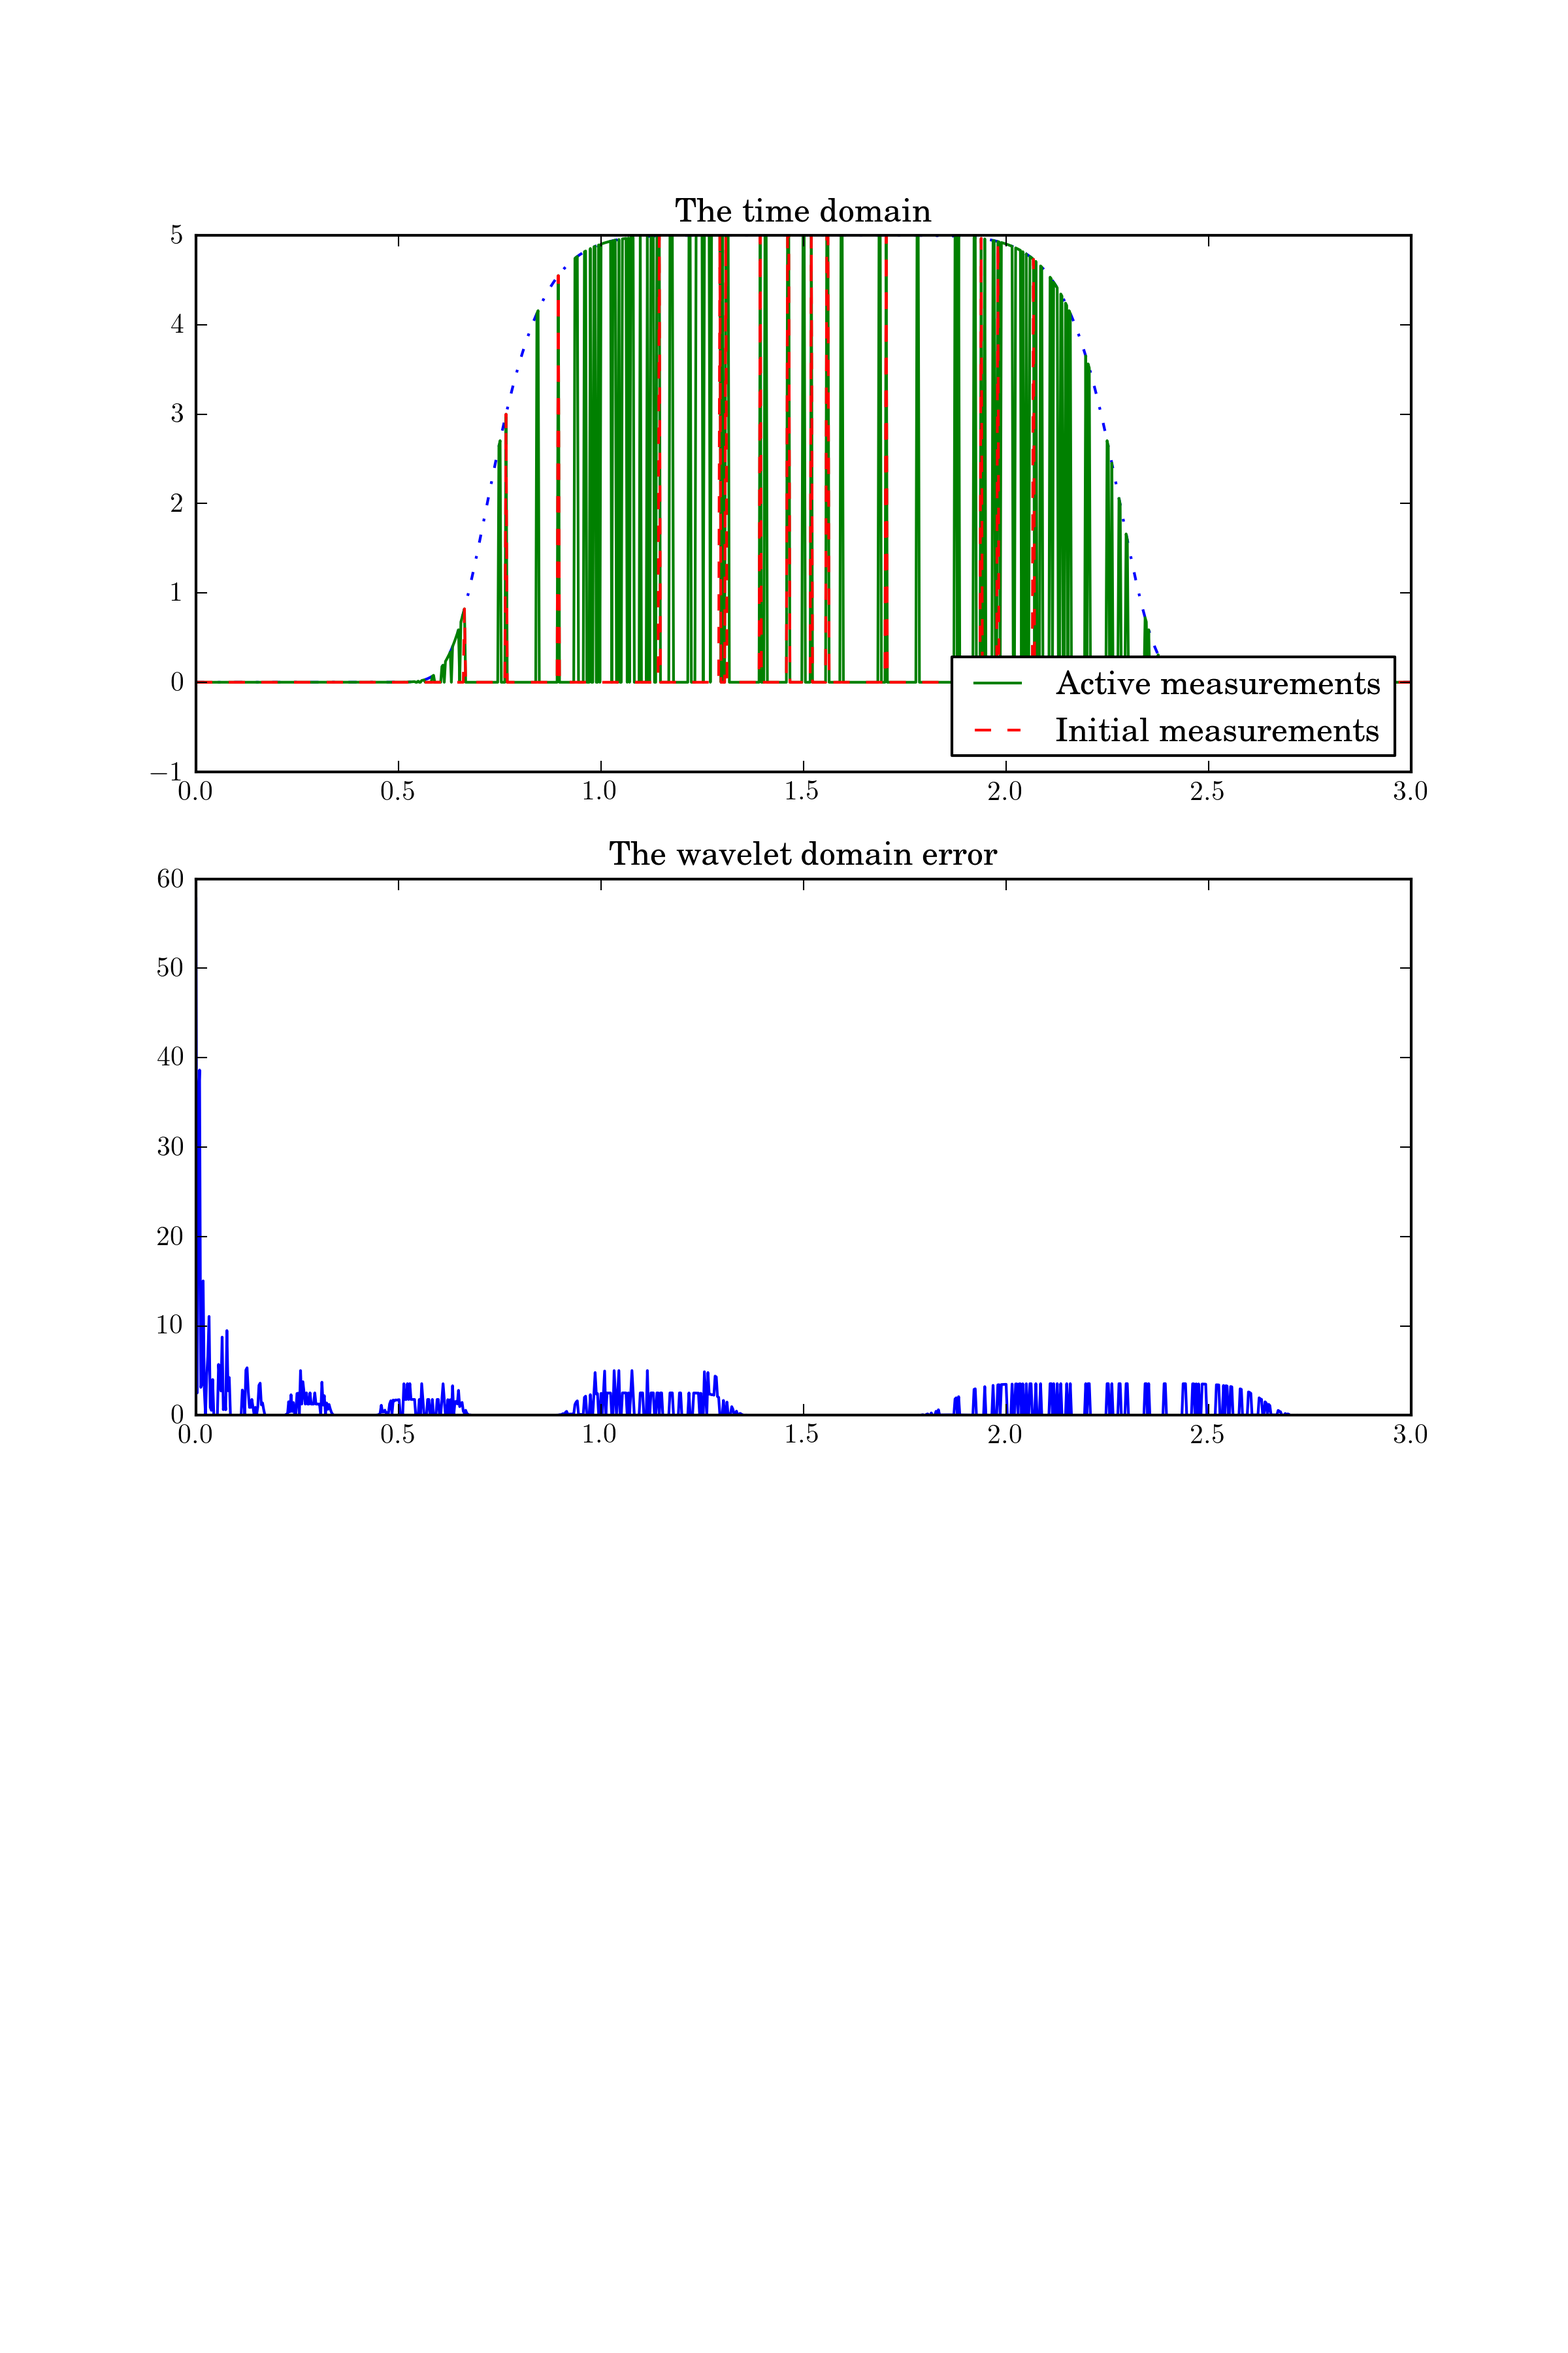
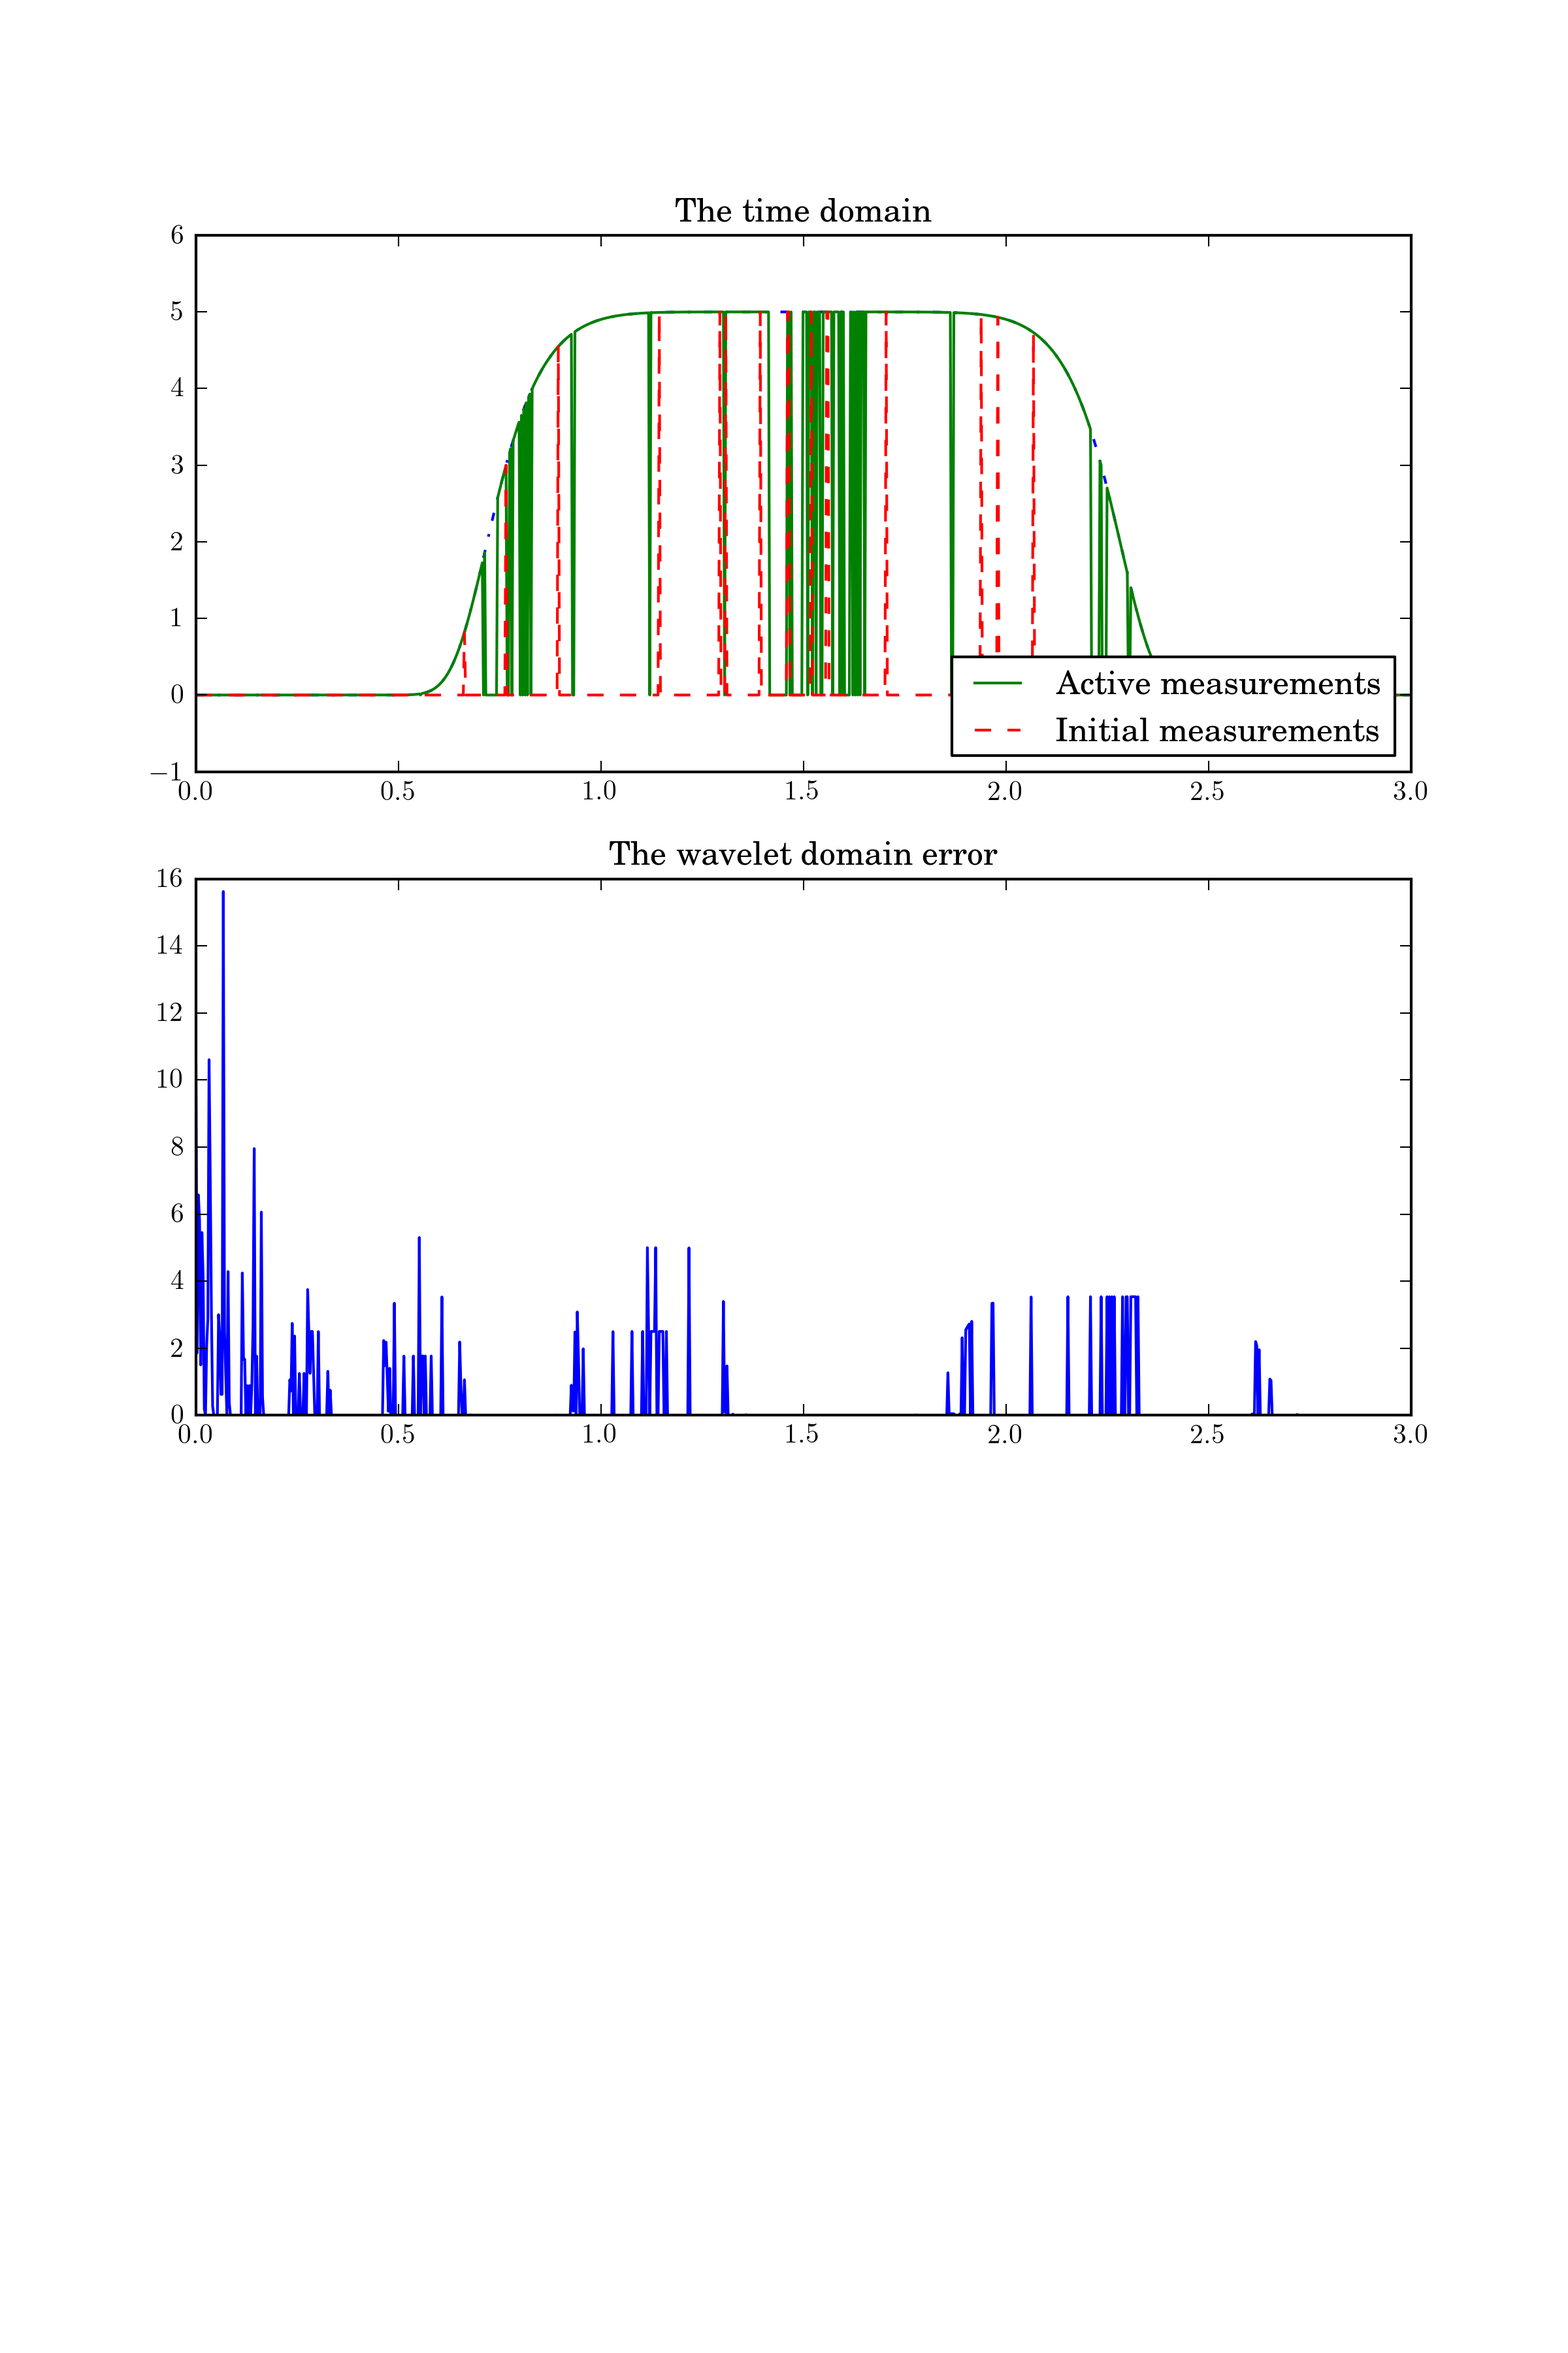
Before I revamp tree_test.py

diff --git a/tree/tree_test.py b/tree/tree_test.py
@@ -245,8 +245,13 @@ def sampleAtInd(ar, sam):
     N = len(ar)
 
     # make our haar matrix
-    h = haarMatrix(ar.shape[0])
-    h = matrix(h)
+    k = haarMatrix(ar.shape[0])
+    h = matrix(k)
+
+    # our wavelet trasform: x = h w
+    h = h.T
+    h = linalg.pinv(h)
+
 
     # tell it where we want to delete
     de = logical_not(sam)
@@ -264,89 +269,100 @@ def sampleAtInd(ar, sam):
     w = h * c
     return w
 
-seed(42)
-num = 1024; max = 3
-t = linspace(0, max, num=num)
-x = e**((t-max/2)**2)
-x = 1 / (1 + exp(10 * (t-max/2)**8)) * 10
+def old():
+    seed(42)
+    num = 1024; max = 3
+    t = linspace(0, max, num=num)
+    x = e**((t-max/2)**2)
+    x = 1 / (1 + exp(10 * (t-max/2)**8)) * 10
 
-N = len(x); n = N
-p = 0.03
-sam = array(np.round(rand(N) * 1 - 0.5 + p), dtype=bool)
+    N = len(x); n = N
+    p = 0.03
+    sam = array(np.round(rand(N) * 1 - 0.5 + p), dtype=bool)
 
-# an approximation in the wavelet domain
-w = sampleAtInd(x, sam)
-stayW = w
-y = idwt_full(w)
-
-# what indicies are important?
-# the ones where the wavelet domain is large there
-waveletIndicies = findIndiciesForHaar(n)
-
-level = 0
-l = 1.2
-j = 0
-while level <= 5:
-    # telling when we've reached level <4>
-    j += 1
-    print level
-    past_len = len(waveletIndicies[j-1])
-    if len(waveletIndicies[j]) != past_len:
-        level += 1
-    
-    # finding the wavelet transform from our samples
+    # an approximation in the wavelet domain
     w = sampleAtInd(x, sam)
+    stayW = w
+    y = idwt_full(w)
 
-    # seeing which indices matter (only want indices in the pointed to by
-    # waveletInd[j], not all the samples
-    ind = argwhere(abs(w) > l) 
+    # what indicies are important?
+    # the ones where the wavelet domain is large there
+    waveletIndicies = findIndiciesForHaar(n)
 
-    # we have where our error is large
+    # 2 for every other element
+    sampleLess = 1
+    level = 0
+    l = 1e-14
+    j = -1
+    while level <= 4:
+        # telling when we've reached level <4>
+        j += 1
 
-    # what indicies should we measure to minimize that?
-    ind = unique(clip(ind, waveletIndicies[j][0], waveletIndicies[j][-1]))
+        print level, j
+        if level > log2(n): break
+        past_len = len(waveletIndicies[j-1])
+        try:
+            if len(waveletIndicies[j]) != past_len:
+                level += 1
+        except:
+            break
+        
+        # finding the wavelet transform from our samples
+        w = sampleAtInd(x, sam)
 
-    # transforming ind to be nice
-    ind = asarray(ind)
-    #ind = ind[:,0,0]
-    ind.shape = (len(ind),)
+        # seeing where the wavelet transform is off
+        ind = argwhere(abs(w) > l) 
+        ind = ind[::sampleLess] # n for every other element
 
-    # sample at the indicies where the wavelet domain error is large: the edges
-    #sam[idx[0][ind]] = True
-    # waveletIndicies point to the indicies that are included in the transform
-    sam[ind] = True
-    w = sampleAtInd(x, sam)
-    
-    # it's just error[ind]. we need to trim ind
+        # only include indices in the range we want
+        indi = unique(clip(ind, waveletIndicies[j][0], waveletIndicies[j][-1]))
+        ind = asarray(indi)
 
+        # transforming ind to be nice
+        ind = asarray(ind)
+        ind.shape = (-1,)
 
-xh = FISTA_1D(x[sam], waveletIndicies[0][sam], len(x), cut=0.5, its=500)
-
-figure(figsize=(8,12))
-subplot(311)
-plot(t, x, '-.')
-plot(t, idwt_full(w), label='\\textrm{Active measurements}')
-plot(t, idwt_full(stayW), '--', label='\\textrm{Initial measurements}')
-legend(loc='lower right')
-title('\\textrm{The time domain}')
-
-subplot(312)
-w = asarray(w)
-w.shape = (-1,)
-plot(t, abs(dwt_full(x) - w))
-title('\\textrm{The wavelet domain error}')
-legend()
-savefig('tree-sampling-reconstruct.png', dpi=300)
-
-subplot(313)
-plot(t, idwt_full(xh))
-plot(t, x)
-title('\\textrm{The reconstruction (after FISTA)}')
-
-
-show()
+        # sample at the indicies where the wavelet domain error is large: the edges
+        # waveletIndicies point to the indicies that are included in the transform
+        sam[ind] = True
+        w = sampleAtInd(x, sam)
+        
+        # it's just error[ind]. we need to trim ind
 
 
+    xh = FISTA_1D(x[sam], waveletIndicies[0][sam], len(x), cut=0.5, its=500)
+
+    figure(figsize=(8,12))
+    subplot(311)
+    plot(t, x, '-.')
+    plot(t, idwt_full(w), label='\\textrm{Active measurements}')
+    plot(t, idwt_full(stayW), '--', label='\\textrm{Initial measurements}')
+    legend(loc='lower right')
+    title('\\textrm{The time domain}')
+
+    subplot(312)
+    w = asarray(w)
+    w.shape = (-1,)
+    plot(t, abs(dwt_full(x) - w))
+    title('\\textrm{The wavelet domain error}')
+    legend()
+    savefig('tree-sampling-reconstruct.png', dpi=300)
+
+    subplot(313)
+    plot(t, idwt_full(xh))
+    plot(t, x)
+    title('\\textrm{The reconstruction (after FISTA)}')
 
 
+    show()
 
+n = 1024
+maxx = 3
+t = linspace(0, maxx, num=n)
+
+x = 1 / (1 + 10 * exp(10 * (t-maxx/2)**4))
+
+l = 1e-14
+
+
+# find an approximation of the wavelet transform
